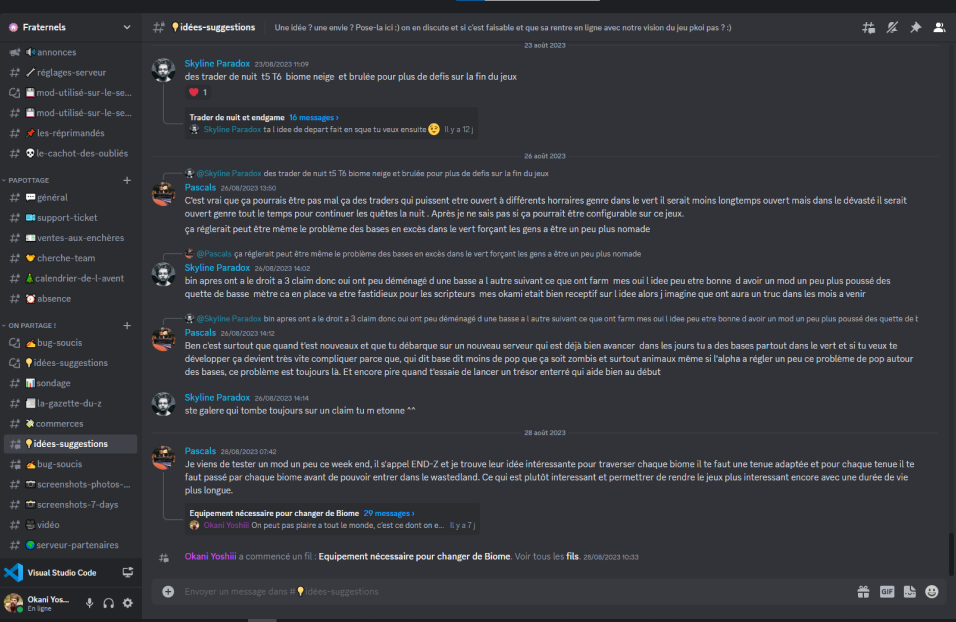
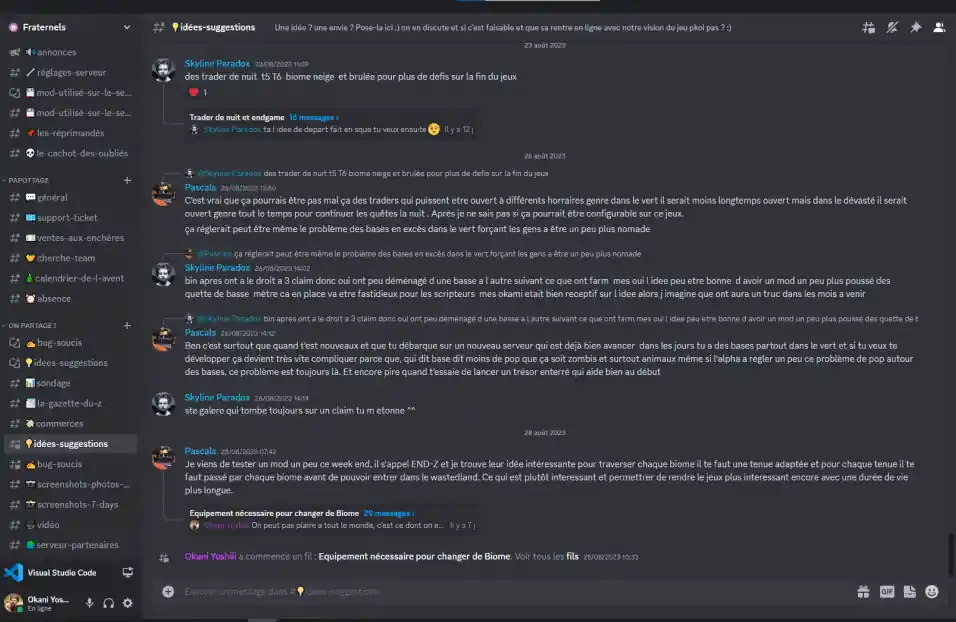
Compression des Images
Compression des images à 30

diff --git a/index.html b/index.html
@@ -8,15 +8,17 @@
     <meta name="description" content="Page d'accueil du serveur 7 Days to Die &quot;Les Fraternels&quot;">
     <title>Les Fraternels</title>
     <link rel="stylesheet" href="style-1.css" media="screen">
+    <link rel="preload" fetchpriority="high" as="image" href="images/Compressed/FRT-Lobby-1920x1080.webp" type="image/webp">
+    <link rel="preload" fetchpriority="high" as="image" href="images/Compressed/7DTD-Fighting-1920x1080.webp" type="image/webp">
     <link rel="stylesheet" href="style-small-1.css" media="screen and (max-width: 700px)">
-    <link rel="icon" type="image/png" href="images/Webp/FRT-Logo-30x30.webp" />
+    <link rel="icon" type="image/png" href="images/Compressed/FRT-Logo-30x30.webp" />
 </head>
 
 <body>
     <header>
         <nav class="wide primary-navigation">
             <a class="icon-link" href="index.html">
-                <img class="server-icon" src="images/Webp/FRT-Logo-75x75.webp" width="75" height="75" alt="">
+                <img class="server-icon" src="images/Compressed/FRT-Logo-75x75.webp" width="75" height="75" alt="">
                 <h1>LES FRATERNELS</h1>
             </a>
             <div class="nav-links">
@@ -47,31 +49,31 @@
                     <a class="fake-button" href="">En savoir plus</a>
                 </div>
                 <div>
-                    <img src="images/Webp/7DTD-Town-1440x810.webp" height="1440" width="810" srcset="
-                    images/Webp/7DTD-Town-978x550.webp 978w,
-                    images/Webp/7DTD-Town-756x425.webp 756w,
-                    images/Webp/7DTD-Town-444x250.webp 444w" sizes="100vw" loading="lazy">
+                    <img src="images/Compressed/7DTD-Town-1440x810.webp" height="1440" width="810" srcset="
+                    images/Compressed/7DTD-Town-978x550.webp 978w,
+                    images/Compressed/7DTD-Town-756x425.webp 756w,
+                    images/Compressed/7DTD-Town-444x250.webp 444w" sizes="100vw" loading="lazy">
                 </div>
             </div>
             <div class="wide mods-preview">
                 <p class="highlighted">Retrouvez ici certains de nos Mods principaux :</p>
                 <div class="wide mods-images">
                     <div>
-                        <img src="images/Webp/7DTD-Alpha21-533x300.webp" width="533" height="300" alt="" loading="lazy" srcset="
-                        images/Webp/7DTD-Alpha21-533x300.webp 533w,
-                        images/Webp/7DTD-Alpha21-355x200.webp 355w" sizes="100vw">
+                        <img src="images/Compressed/7DTD-Alpha21-533x300.webp" width="533" height="300" alt="" loading="lazy" srcset="
+                        images/Compressed/7DTD-Alpha21-533x300.webp 533w,
+                        images/Compressed/7DTD-Alpha21-355x200.webp 355w" sizes="100vw">
                         <a href="#" class="legend">Exemple de Mod - par OkaniYoshiii</a>
                     </div>
                     <div>
-                        <img src="images/Webp/7DTD-Blocks-533x300.webp" width="533" height="300" alt="" loading="lazy" srcset="
-                        images/Webp/7DTD-Blocks-533x300.webp 533w,
-                        images/Webp/7DTD-Blocks-355x200.webp 355w" sizes="100vw">
+                        <img src="images/Compressed/7DTD-Blocks-533x300.webp" width="533" height="300" alt="" loading="lazy" srcset="
+                        images/Compressed/7DTD-Blocks-533x300.webp 533w,
+                        images/Compressed/7DTD-Blocks-355x200.webp 355w" sizes="100vw">
                         <a href="#" class="legend">Exemple de Mod - par OkaniYoshiii</a>
                     </div>
                     <div>
-                        <img src="images/Webp/7DTD-Building-533x300.webp" width="533" height="300" alt="" loading="lazy" srcset="
-                        images/Webp/7DTD-Building-533x300.webp 533w,
-                        images/Webp/7DTD-Building-355x200.webp 355w" sizes="100vw">
+                        <img src="images/Compressed/7DTD-Building-533x300.webp" width="533" height="300" alt="" loading="lazy" srcset="
+                        images/Compressed/7DTD-Building-533x300.webp 533w,
+                        images/Compressed/7DTD-Building-355x200.webp 355w" sizes="100vw">
                         <a href="#" class="legend">Exemple de Mod - par OkaniYoshiii</a>
                     </div>
                 </div>
@@ -90,14 +92,13 @@
                 <div>
                     <p class="infos-title">Serveur Multijoueur</p>
                     <ul>
+                        <li>Une orientation <span>"Difficulté"</span> et qui met l'emphase sur <span>l'entraide</span> et <span>l'échange</span></li>
                         <li><span>30</span> slots</li>
+                        <li>Un <span>lobby</span> avec des machines de vente ainsi que ces marchands</li>
+                        <li>Un <span>serveur de test</span> dédié aux expérimentations sur les Mods à venir</li>
+                        <li><span>Livemap</span></li>
                         <li>Serveur hébergé en <span>Allemagne</span> par <span>Gportal</span></li>
                         <li><span>Outils d'administration</span> (CSMM, CPM et ServerTools)</li>
-                        <li><span>Livemap</span></li>
-                        <li>Un <span>serveur de test</span> dédié aux expérimentations sur les Mods à venir</li>
-                        <li>Un <span>lobby</span> avec des machines de vente ainsi que ces marchands</li>
-                        <li>Une orientation <span>"Difficulté"</span> et qui met l'emphase sur <span>l'entraide</span>
-                            et <span>l'échange</span></li>
                     </ul>
                 </div>
                 <hr>
@@ -117,23 +118,23 @@
             <h2 class="medium staff-title">Une Equipe à votre écoute</h2>
             <div class="wide staff-members">
                 <figure>
-                    <img src="images/Webp/FRT-OkaniYoshiii-331x331.webp" width="331" height="331" alt="" loading="lazy" srcset="
-                        images/Webp/FRT-OkaniYoshiii-331x331.webp 331w,
-                        images/Webp/FRT-OkaniYoshiii-300x300.webp 300w" sizes="(max-width: 340px) 300px, 400px">
+                    <img src="images/Compressed/FRT-OkaniYoshiii-331x331.webp" width="331" height="331" alt="" loading="lazy" srcset="
+                        images/Compressed/FRT-OkaniYoshiii-331x331.webp 331w,
+                        images/Compressed/FRT-OkaniYoshiii-300x300.webp 300w" sizes="(max-width: 340px) 300px, 400px">
                     <figcaption><a href="#">OkaniYoshiii</a><br>Moddeur de la communauté des Fraternels et gérant du
                         site internet</figcaption>
                 </figure>
                 <figure>
-                    <img src="images/Webp/FRT-Bodarn-432x432.webp" width="432" height="432" alt="" loading="lazy" srcset="
-                        images/Webp/FRT-Bodarn-432x432.webp 432w,
-                        images/Webp/FRT-Bodarn-300x300.webp 300w" sizes="(max-width: 340px) 300px, 400px">
+                    <img src="images/Compressed/FRT-Bodarn-432x432-small.webp" width="432" height="432" alt="" loading="lazy" srcset="
+                        images/Compressed/FRT-Bodarn-432x432-small.webp 432w,
+                        images/Compressed/FRT-Bodarn-300x300-small.webp 300w" sizes="(max-width: 340px) 300px, 400px">
                     <figcaption><a href="#">Bodarn</a><br>Administrateur, modérateur et gérant des différents serveurs
                     </figcaption>
                 </figure>
                 <figure>
-                    <img src="images/Webp/FRT-Anarchique-475x470.webp" width="475" height="470" alt="" loading="lazy" srcset="
-                        images/Webp/FRT-Anarchique-475x470.webp 475w,
-                        images/Webp/FRT-Anarchique-300x300.webp 300w" sizes="(max-width: 340px) 300px, 400px">
+                    <img src="images/Compressed/FRT-Anarchique-475x470.webp" width="475" height="470" alt="" loading="lazy" srcset="
+                        images/Compressed/FRT-Anarchique-475x470.webp 475w,
+                        images/Compressed/FRT-Anarchique-300x300.webp 300w" sizes="(max-width: 340px) 300px, 400px">
                     <figcaption><a href="#">Anarchique</a><br>Modérateur et conseiller principal de la communauté des
                         Fraternels</figcaption>
                 </figure>
@@ -156,9 +157,9 @@
                         donc pas pertinentes pour nous.</p>
                 </div>
                 <div>
-                    <img src="images/Webp/Discord-Screenshot-956x622.webp" width="956" height="622" alt="" loading="lazy" srcset="
-                    images/Webp/Discord-Screenshot-956x622.webp 956w,
-                    images/Webp/Discord-Screenshot-450x293.webp 450w">
+                    <img src="images/Compressed/Discord-Screenshot-956x622.webp" width="956" height="622" alt="" loading="lazy" srcset="
+                    images/Compressed/Discord-Screenshot-956x622.webp 956w,
+                    images/Compressed/Discord-Screenshot-450x293.webp 450w">
                 </div>
             </div>
         </section>
@@ -166,7 +167,7 @@
     <footer>
         <div class="wide footer-navigation">
             <a class="footer-icon-link" href="https://discord.gg/TQZj3J8FEa">
-                <img class="server-icon" src="images/Webp/Discord-Logo-75x75.webp" width="75" height="75" alt="" loading="lazy">
+                <img class="server-icon" src="images/Compressed/Discord-Logo-75x75.webp" width="75" height="75" alt="" loading="lazy">
                 <p>Notre Discord</p>
             </a>
             <div class="footer-links">

diff --git a/style-1.css b/style-1.css
@@ -133,7 +133,7 @@ header a, footer a {
     font-weight: bold;
     margin: 0;
     padding-block: 1.4em;
-    background: url(images/Webp/FRT-Lobby-1920x1080.webp) center center no-repeat;
+    background: url(images/Compressed/FRT-Lobby-1920x1080.webp) center center no-repeat;
     background-size: cover;
 }
 
@@ -202,7 +202,7 @@ header a, footer a {
 }
 
 .server-infos {
-    background: url(images/Webp/7DTD-Fighting-1920x1080.webp) center/cover no-repeat;
+    background: url(images/Compressed/7DTD-Fighting-1920x1080.webp) center/cover no-repeat;
     padding-block: 6rem;
 }
 
@@ -287,8 +287,8 @@ header a, footer a {
 
 .staff-members a {
     color: var(--txt-secondary-color);
-    font-size: 20px;
-    font-weight: 700;
+    font-size: 25px;
+    font-weight: bold;
 }
 
 .staff-responses {
